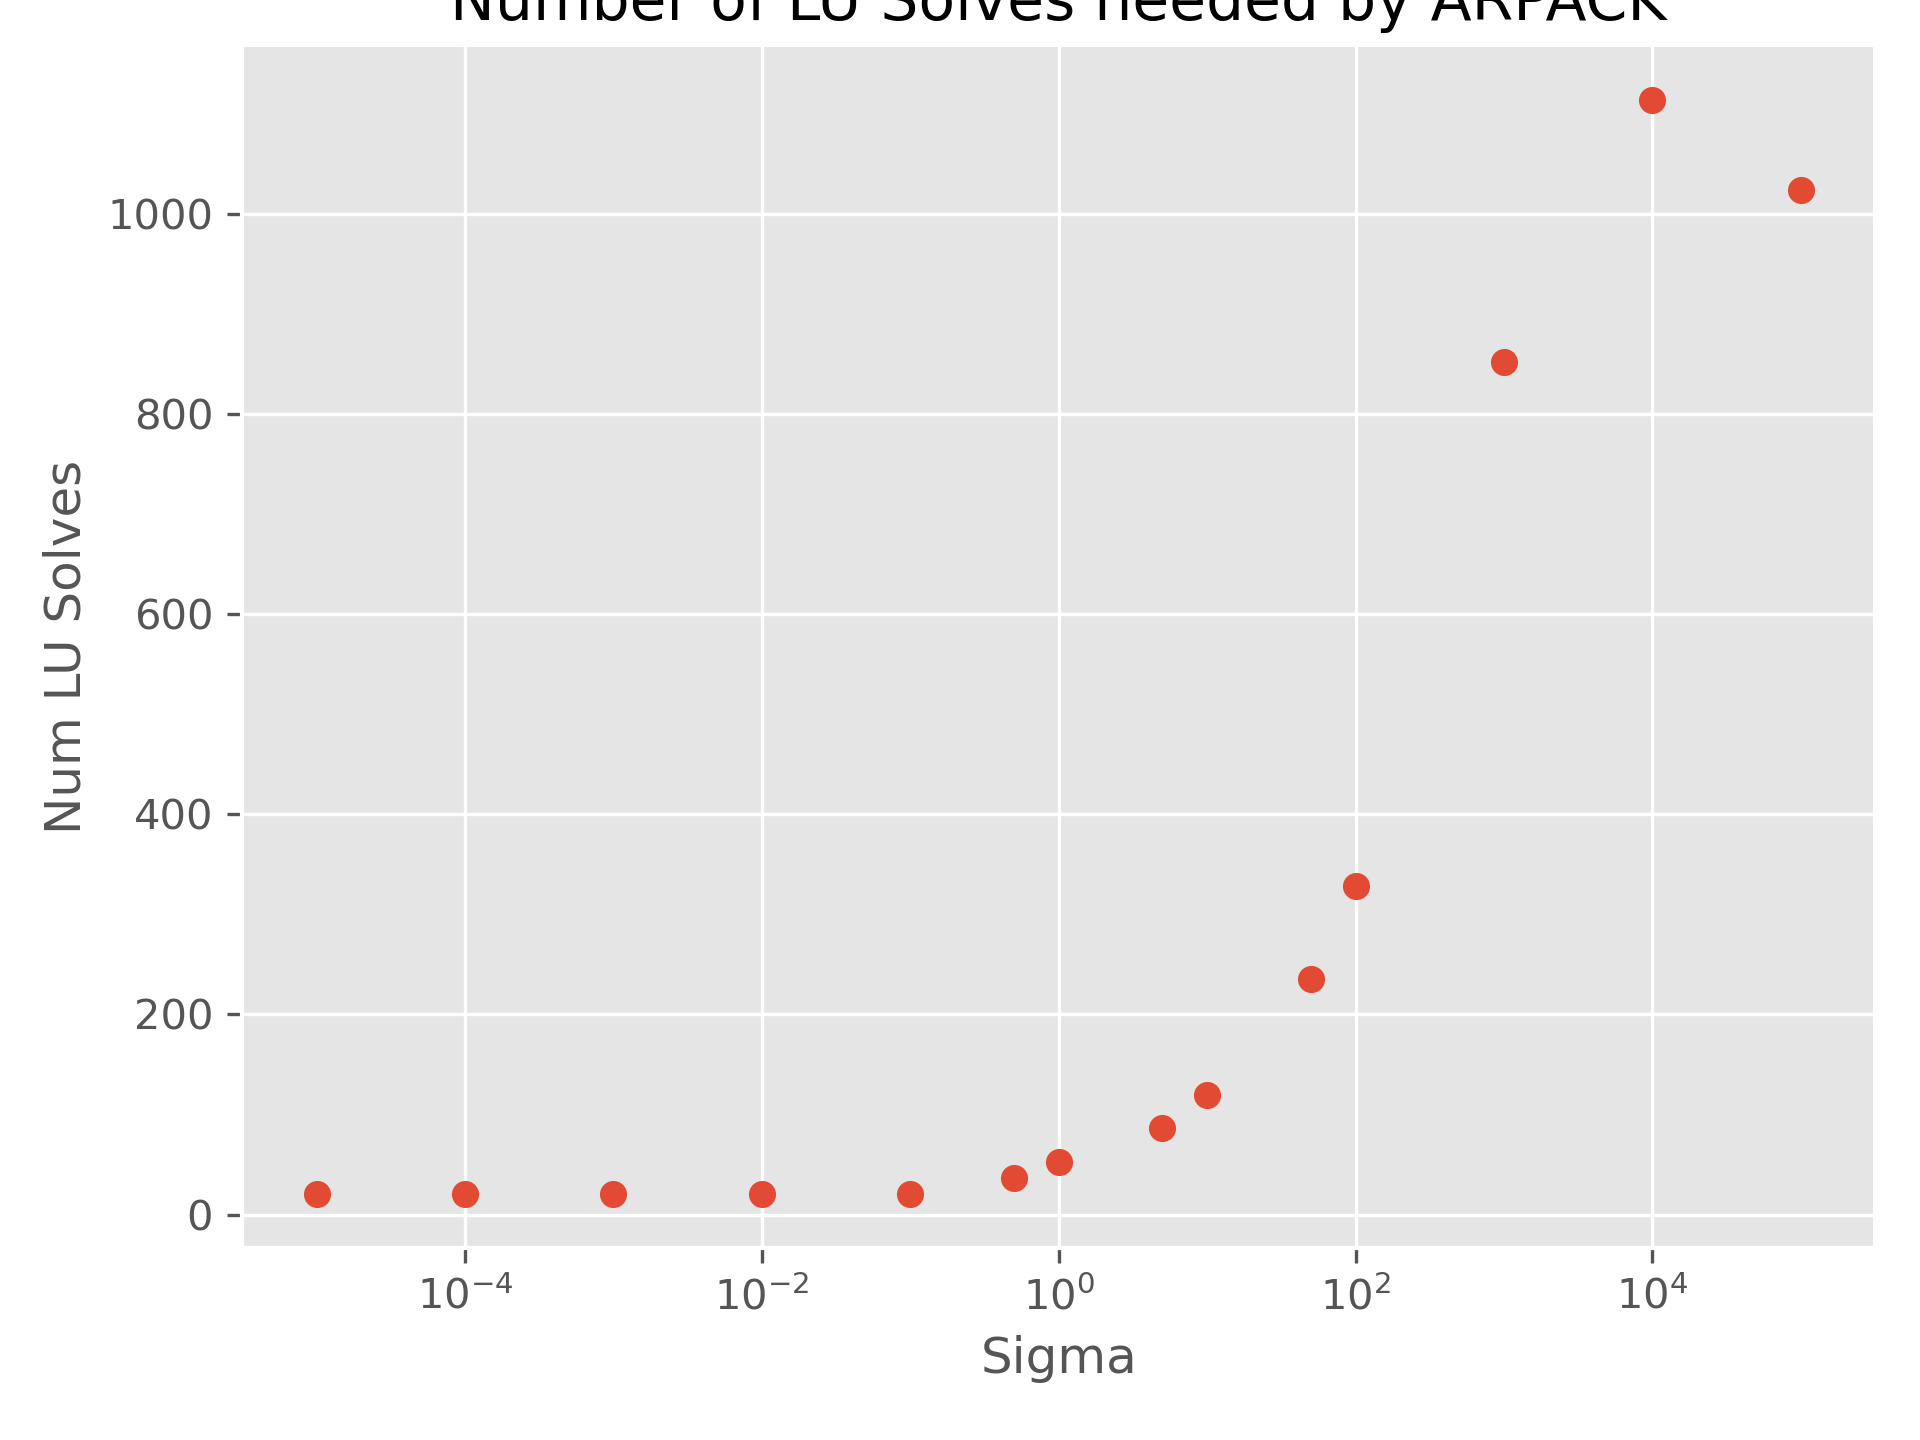
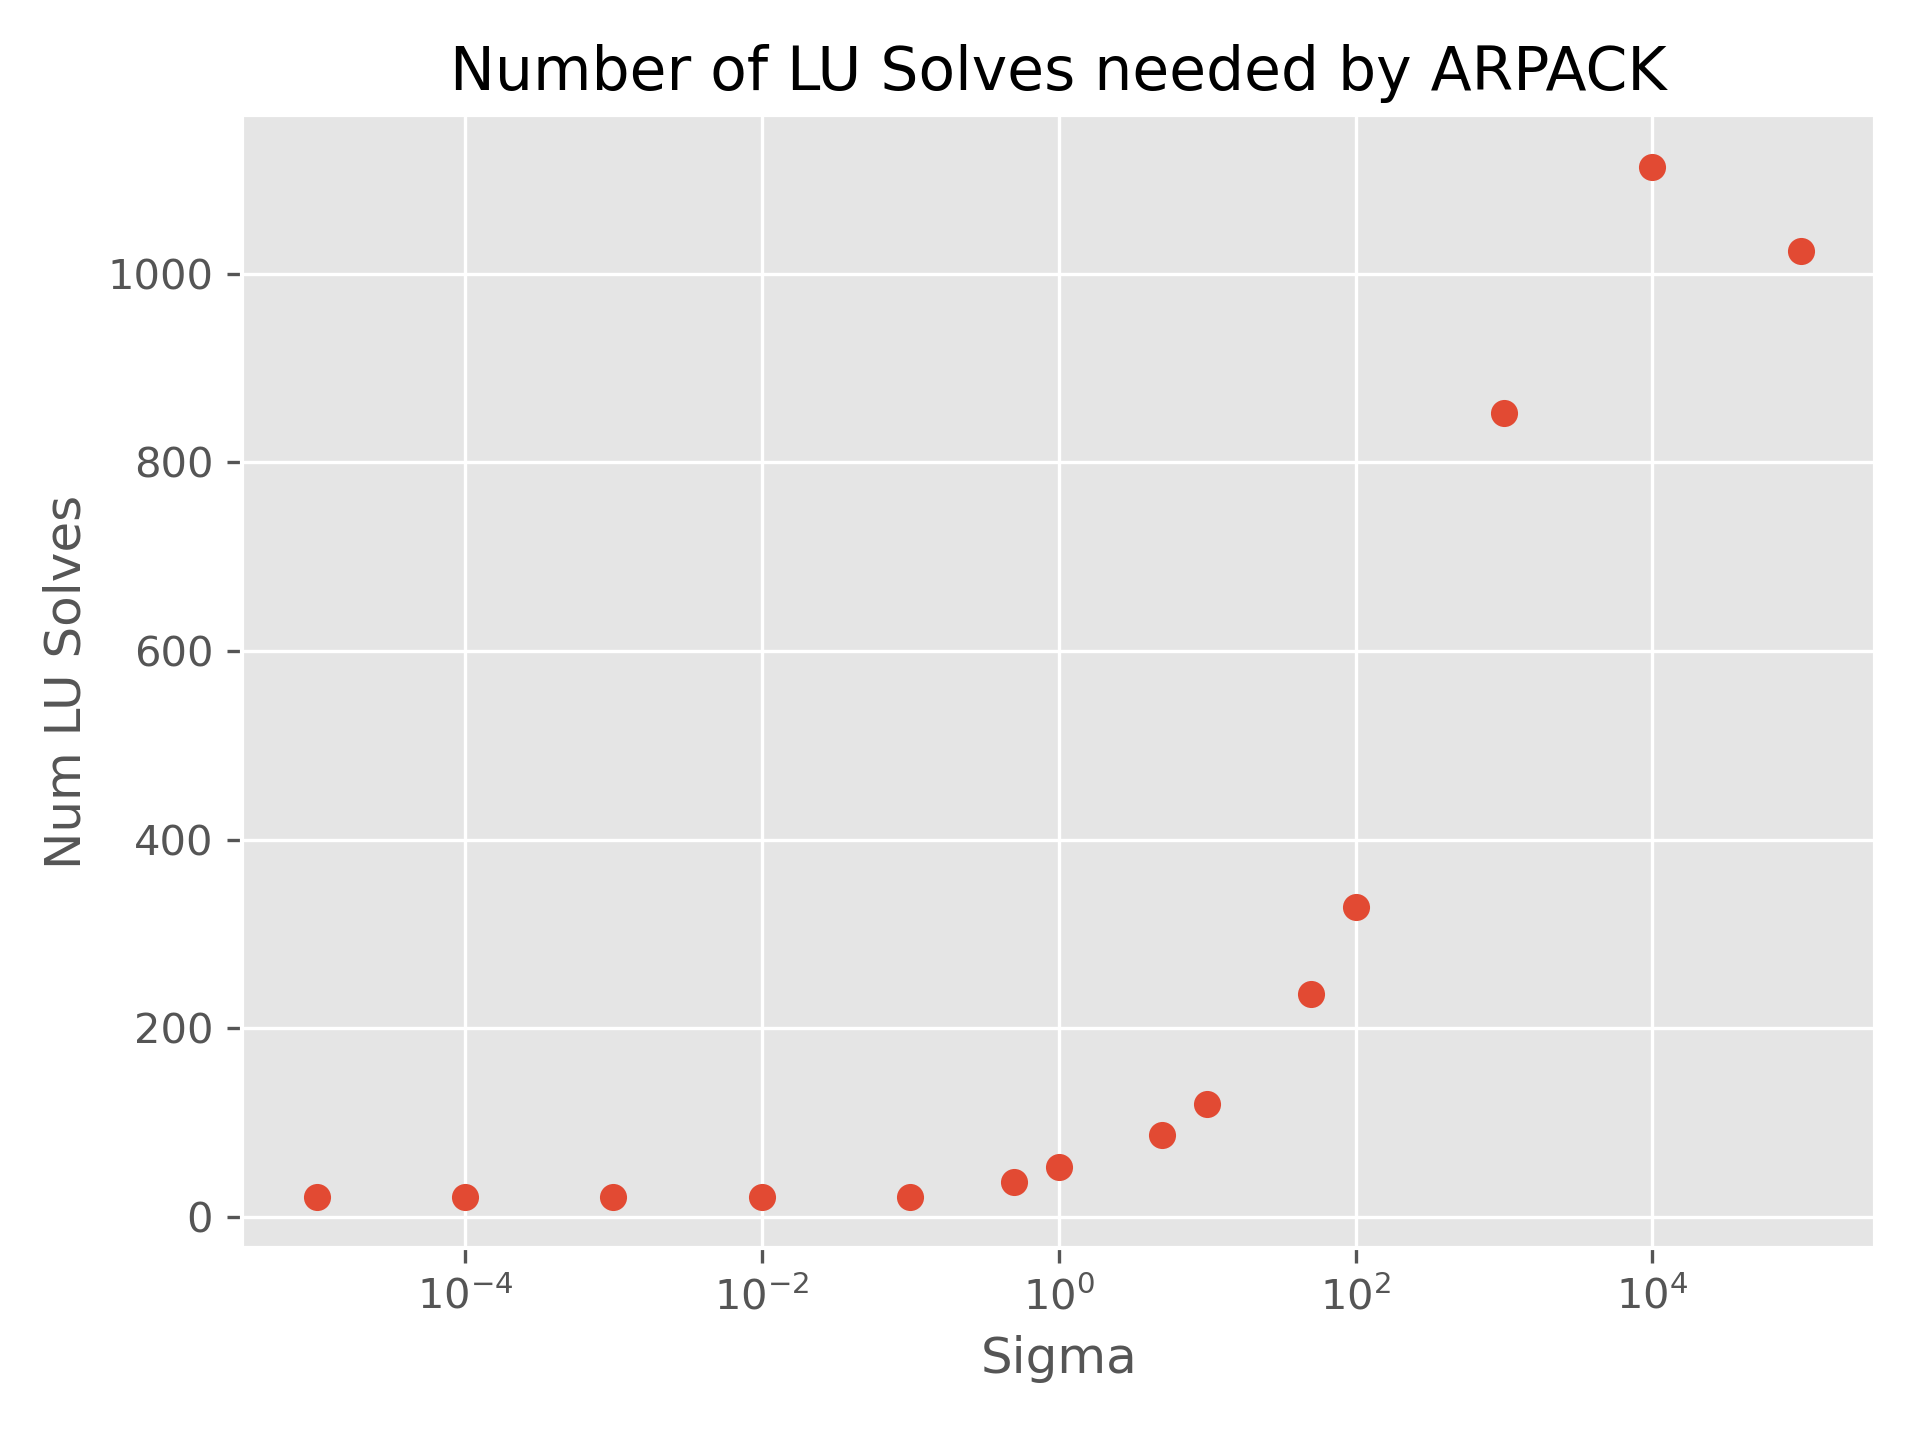
.

diff --git a/main.tex b/main.tex
@@ -389,8 +389,18 @@ $L$ & Mat gen (s) & LU (s) & Arpack (s) & dggev (s) \\
 
 \section{\label{sec:Future improvements and Conclusions} Future improvements and Conclusions}
 
-The simplest first possibility that may work is going back to the matrix free version and generating the full matrices every 100th step or so to use as a preconditioner. If the spin does not change very rapidly then the matrix should also change slowly and the same preconditioner could be used for multiple time steps. The main issue is that close to the merger spins will change rapidly, and there we may end up calculate the full matrices much more frequently. Another possibility is trying to get a better preconditioner using the analytical properties of matrices, which will allow us to work in a matrix free manner avoiding the cost of building the matrices $M$ and $B$. The construction of the matrices requires $L^2$ calls to the functions $f_M$ and $f_B$, which is the bottleneck in the new algorithm. When using a matrix free version we need to use a linear solver like GMRES which will call these functions multiple times to get the action of the $(M-\sigma B)^{-1}$. 
+The simplest first possibility that may work is going back to the matrix free version and generating the full matrices every 100th step or so to use as a preconditioner. If the spin does not change very rapidly then the matrix should also change slowly and the same preconditioner could be used for multiple time steps. The main issue is that close to the merger spins will change rapidly, and there we may end up calculate the full matrices much more frequently. Another possibility is trying to get a better preconditioner using the analytical properties of matrices, which will allow us to work in a matrix free manner avoiding the cost of building the matrices $M$ and $B$.
+
+The construction of the matrices requires $L^2$ calls to the functions $f_M$ and $f_B$, which is the bottleneck in the new algorithm. When using a matrix free version we need to use a linear solver like GMRES which will call these functions multiple times to get the action of the $(M-\sigma B)^{-1}$. In our testing we have found that with $\sigma = 0.1$ ARPACK usually needs less than 30 iterations to converge. For each ARPACK iteration we need the linear solver to converge in less than $O(L)$ iterations which is very hard for the matrix we have without a good preconditioner. 
+ Therefore, for the matrix free version to be faster than constructing 
  so the total number of calls made by ARPACK + GMRES should be below this number for the matrix-free 
+
+\begin{figure}[t]
+  \centering
+  \includegraphics[width=0.45\textwidth]{./images/LU_solve_nums_L50.png}
+  \label{fig:LU_solve_nums_L50}
+  \caption{Number of LU solves required by the .}
+\end{figure}
 
 Also, the matrix generation is an embarrassingly parallel problem where we apply the functions $f_{M}$ and $f_{B}$ on unit vectors one by one to construct the matrices. For large values of $L$ we can gain good speedup by doing this in parallel.
 